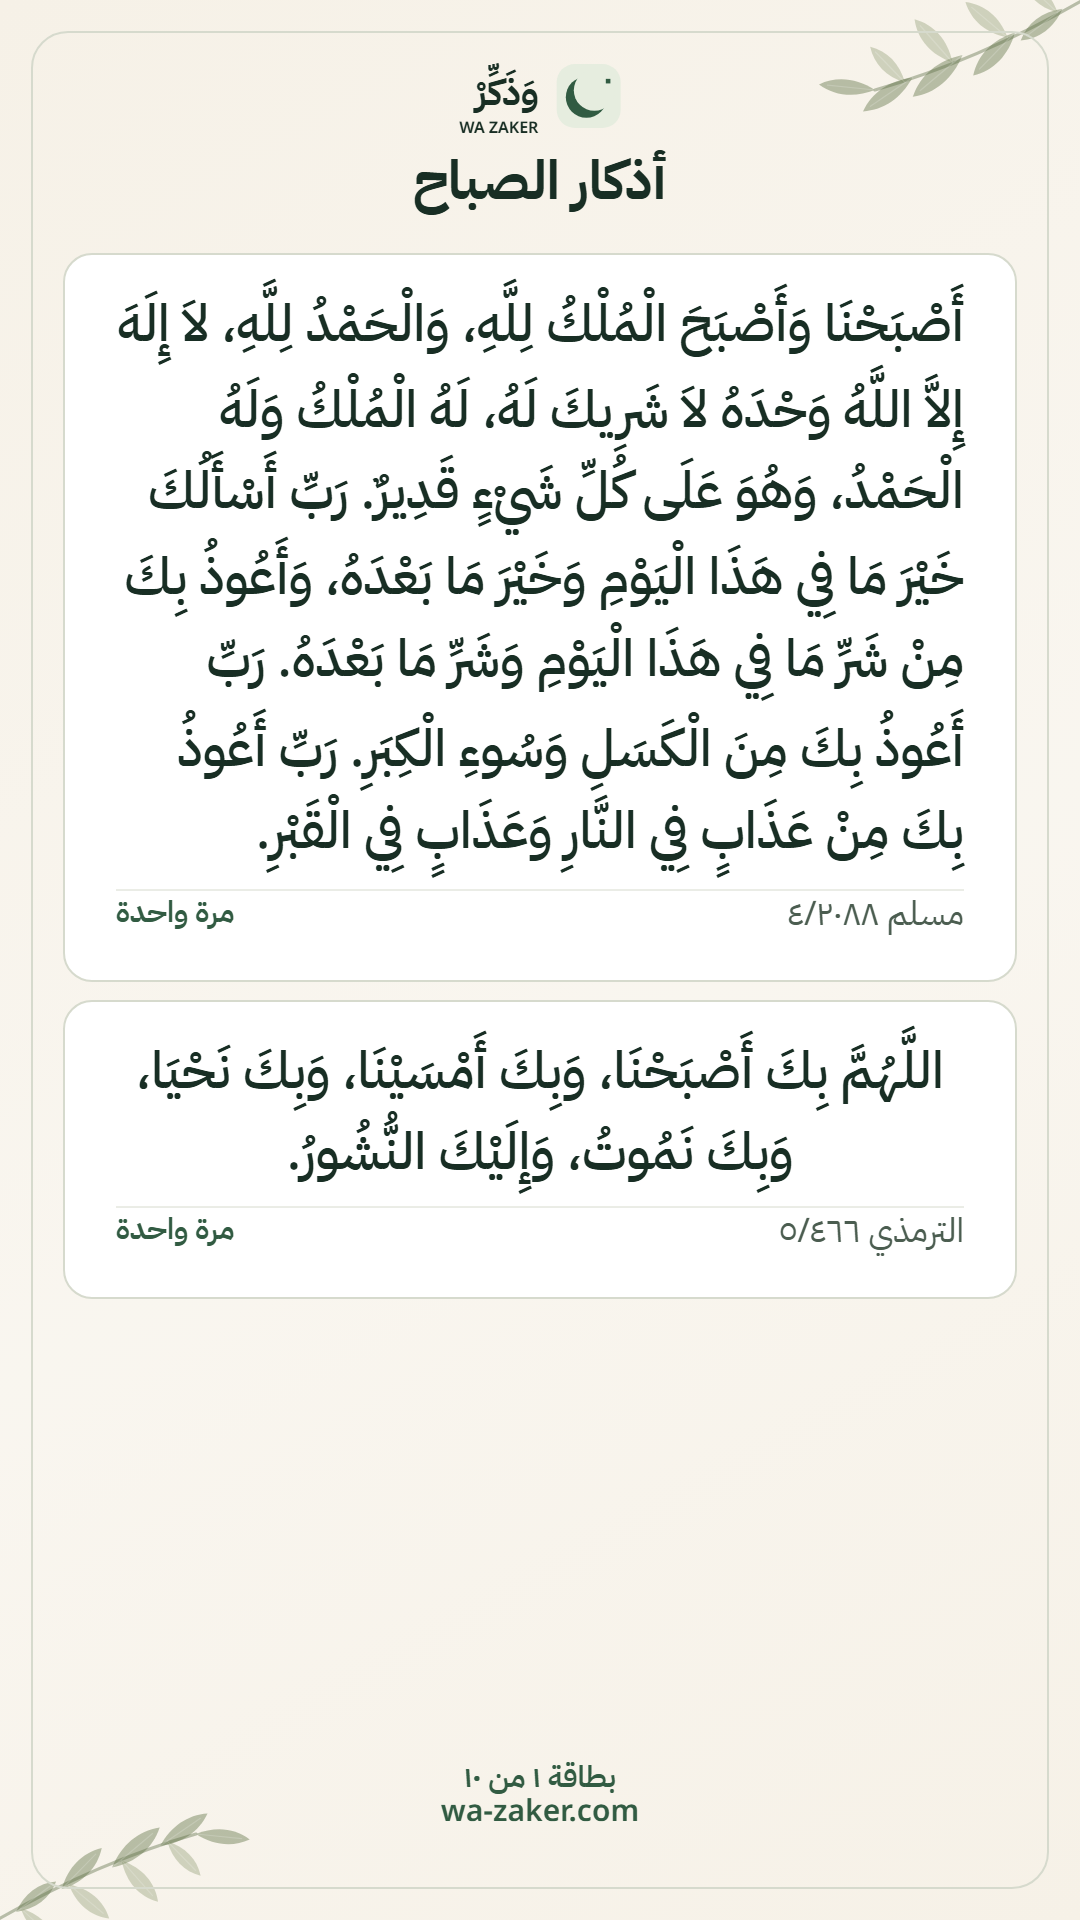
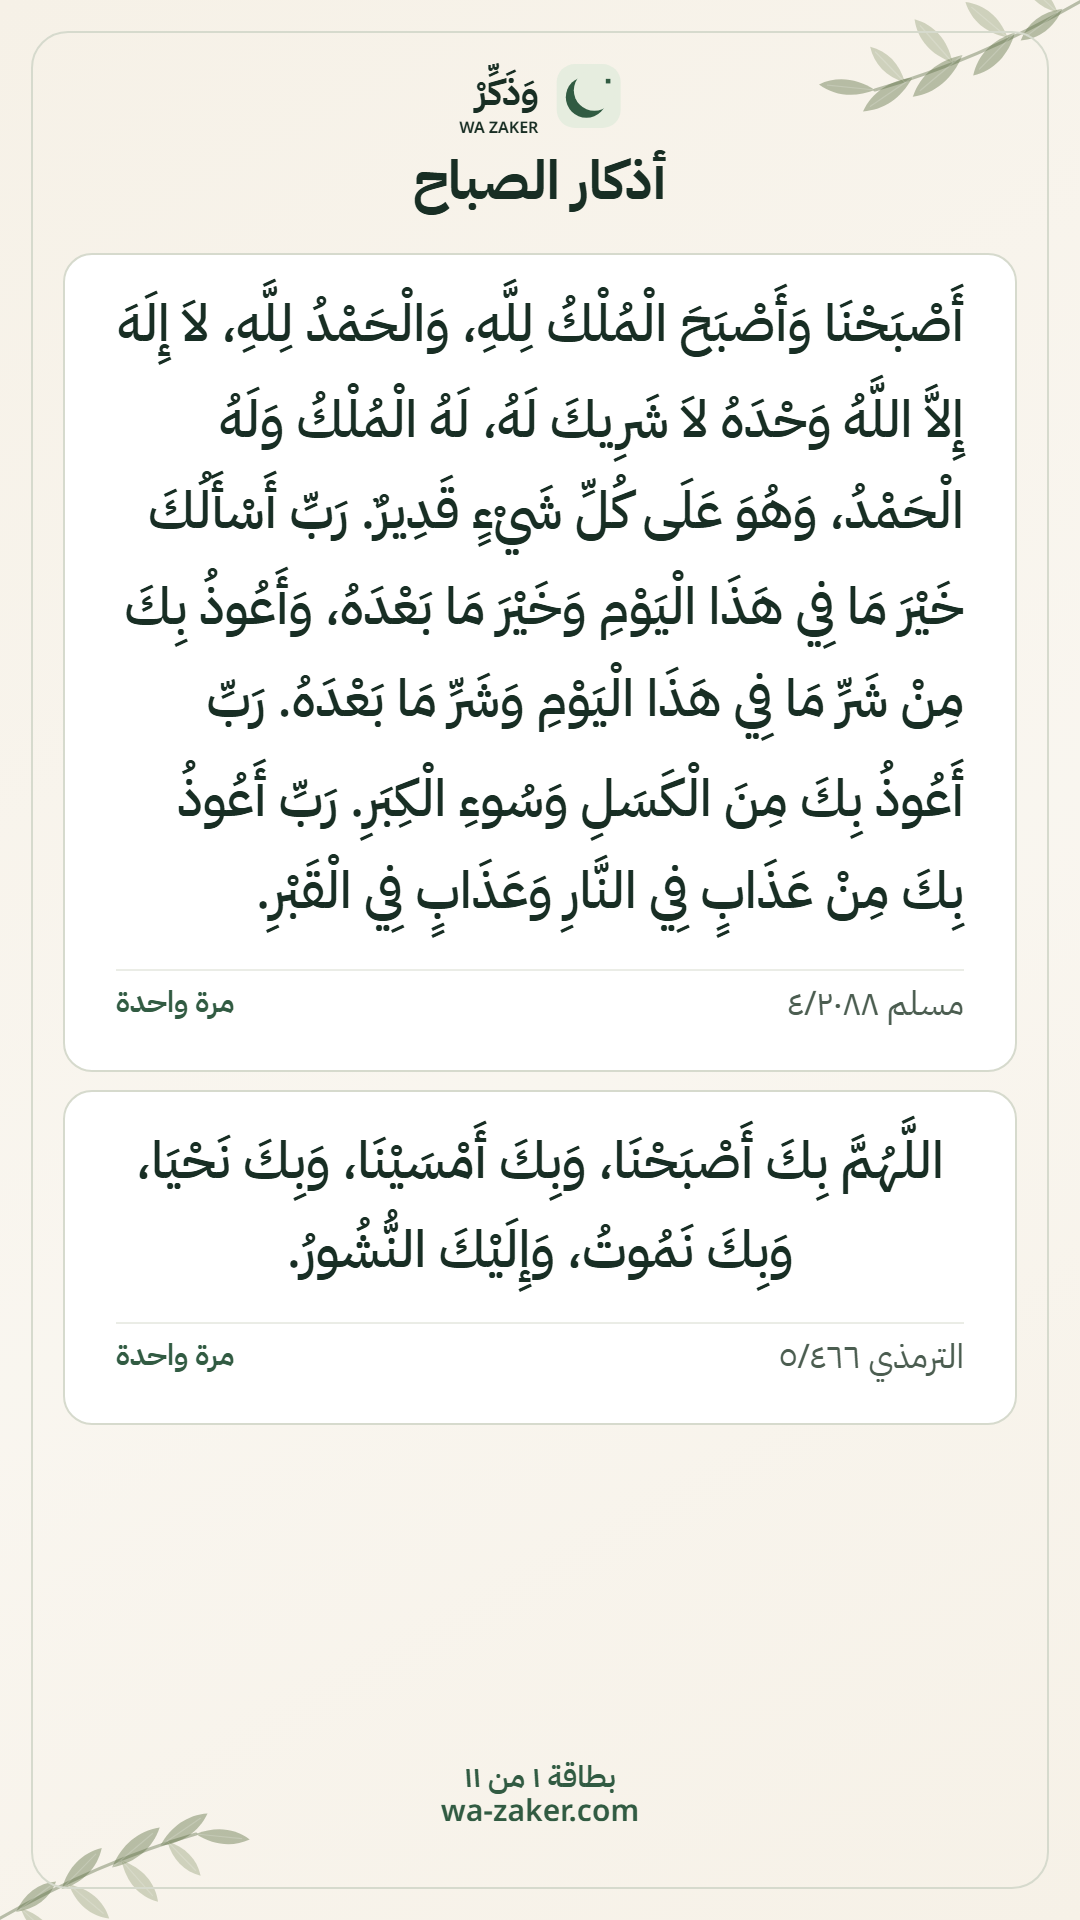
fix: preserve glyph clearance around shared-card dividers

diff --git a/e2e/sharing-refinement.spec.ts b/e2e/sharing-refinement.spec.ts
@@ -2,6 +2,23 @@ import { getAzkarForMode } from "../src/app/content/azkar";
 import AxeBuilder from "@axe-core/playwright";
 import { expect, test, type Page } from "@playwright/test";
 
+async function expectDividerClearance(page: Page) {
+  const ink = await page.evaluate(
+    () => (window as unknown as { cardInk: { top: number; bottom: number; panelId: number }[] }).cardInk,
+  );
+  const dividers = await page.evaluate(
+    () => (window as unknown as { cardDividers: { y: number; panelId: number }[] }).cardDividers,
+  );
+  expect(dividers.length).toBeGreaterThan(0);
+  for (const divider of dividers) {
+    const lines = ink.filter((line) => line.panelId === divider.panelId);
+    const before = lines.filter((line) => line.top < divider.y);
+    const after = lines.filter((line) => line.top >= divider.y);
+    expect(divider.y - Math.max(...before.map((line) => line.bottom))).toBeGreaterThanOrEqual(20);
+    expect(Math.min(...after.map((line) => line.top)) - divider.y).toBeGreaterThanOrEqual(20);
+  }
+}
+
 async function openSharing(page: Page, language = "ar", route = "morning", recoverFit = false) {
   await page.addInitScript(
     ({ language }) => {
@@ -20,6 +37,22 @@ async function openSharing(page: Page, language = "ar", route = "morning", recov
       );
       const original = CanvasRenderingContext2D.prototype.fillText;
       const originalRect = CanvasRenderingContext2D.prototype.roundRect;
+      const originalMove = CanvasRenderingContext2D.prototype.moveTo;
+      const originalLine = CanvasRenderingContext2D.prototype.lineTo;
+      const points = new WeakMap<CanvasRenderingContext2D, { x: number; y: number }>();
+      const cardDividers: { y: number; panelId: number }[] = [];
+      (window as unknown as { cardDividers: unknown[] }).cardDividers = cardDividers;
+      CanvasRenderingContext2D.prototype.moveTo = function (x, y) {
+        points.set(this, { x, y });
+        originalMove.call(this, x, y);
+      };
+      CanvasRenderingContext2D.prototype.lineTo = function (x, y) {
+        const start = points.get(this);
+        if (this.canvas.width === 1080 && start?.x === 116 && x === 964 && start.y === y) {
+          cardDividers.push({ y, panelId: artwork.get(this)!.panelId! });
+        }
+        originalLine.call(this, x, y);
+      };
       const artwork = new WeakMap<
         CanvasRenderingContext2D,
         { brandBottom?: number; wordmarkBottom?: number; panelTop?: number; panelId?: number; panelBottom: number }
@@ -308,12 +341,14 @@ test("sharing preview supports readable Arabic, sources and accessible controls 
             panelTop: number;
             panelBottom: number;
             size: number;
+            panelId: number;
           }[];
         }
       ).cardInk,
   );
   expect(ink.some((line) => line.size === 34)).toBe(true);
   expect(ink.some((line) => line.size === 30)).toBe(true);
+  await expectDividerClearance(page);
   for (const line of ink) {
     expect(line.text).not.toMatch(/[0-9۰-۹]/u);
     expect(line.text).not.toBe("المصدر");
@@ -496,6 +531,7 @@ test("single Morning card keeps its contextual title and complete selected detai
   const download = page.waitForEvent("download");
   await modal.getByRole("button", { name: "حفظ", exact: true }).click();
   await (await download).saveAs(testInfo.outputPath("morning-single-full.png"));
+  await expectDividerClearance(page);
 });
 
 test("complete cards, compatible formats and ZIP saving are usable on a narrow screen", async ({ page }, testInfo) => {
@@ -528,6 +564,7 @@ test("complete cards, compatible formats and ZIP saving are usable on a narrow s
   const imageDownload = page.waitForEvent("download");
   await modal.getByRole("button", { name: "حفظ", exact: true }).click();
   await (await imageDownload).saveAs(testInfo.outputPath("lavender-collection.png"));
+  await expectDividerClearance(page);
   const download = page.waitForEvent("download");
   await modal.getByRole("button", { name: "المجموعة كاملة", exact: true }).click();
   await modal.getByRole("button", { name: "حفظ", exact: true }).click();

diff --git a/src/app/share/shareLayout.ts b/src/app/share/shareLayout.ts
@@ -16,8 +16,16 @@ export const SHARE_ARABIC_FONT = '"IBM Plex Sans Arabic", "Noto Sans Arabic Vari
 export const SHARE_UI_FONT = '"Noto Sans Arabic Variable", system-ui, sans-serif';
 /** Export pixels: protect the reading text's diacritics below the badge. */
 export const SHARE_PILL = { top: 28, height: 50, gap: 16, textTop: 94, bottom: 36 } as const;
-export const SHARE_SECTION_GAP = 28;
-export const SHARE_COMPACT = { top: 24, bottom: 24, sectionGap: 20, panelGap: 20, metadataGap: 32 } as const;
+/** Clear space on each side of a divider, measured from visible glyphs. */
+export const SHARE_DIVIDER_CLEARANCE = 20;
+export const SHARE_SECTION_GAP = SHARE_DIVIDER_CLEARANCE * 2;
+export const SHARE_COMPACT = {
+  top: 24,
+  bottom: 24,
+  sectionGap: SHARE_SECTION_GAP,
+  panelGap: 20,
+  metadataGap: 32,
+} as const;
 
 /** Display glyphs only: reviewed payloads, URLs and filenames stay byte-preserving. */
 export function shareDisplayDigits(text: string): string {
@@ -247,8 +255,8 @@ export function measureShareSection(
 ): MeasuredSection {
   const fontSize =
     section.key === "arabic" ? (single ? (compact ? 52 : 64) : 52) : primary ? 52 : section.key === "source" ? 34 : 36;
-  const lineHeight = Math.ceil(fontSize * (section.direction === "rtl" ? 1.65 : 1.5));
   ctx.font = `${section.key === "arabic" ? 500 : 400} ${fontSize}px ${section.direction === "rtl" ? SHARE_ARABIC_FONT : SHARE_UI_FONT}`;
+  ctx.textBaseline = "alphabetic";
   const lines = wrapShareText(section.text, (value) => ctx.measureText(shareDisplayDigits(value)).width, width);
   // Keep the final reference together when it fits on the next line. The
   // joined reviewed payload stays identical, including its whitespace.
@@ -262,6 +270,15 @@ export function measureShareSection(
     }
   }
   const labelHeight = section.key === "arabic" || section.key === "source" ? 0 : 44;
+  // drawInkTop positions actual ink at the row top. Arabic marks can extend
+  // beyond nominal leading; reserve their real height before the next row.
+  const inkHeight = Math.max(
+    ...lines.map((line) => {
+      const bounds = ctx.measureText(shareDisplayDigits(line.trim()));
+      return (bounds.actualBoundingBoxAscent ?? fontSize * 0.8) + (bounds.actualBoundingBoxDescent ?? fontSize * 0.2);
+    }),
+  );
+  const lineHeight = Math.ceil(Math.max(fontSize * (section.direction === "rtl" ? 1.65 : 1.5), inkHeight + 8));
   return { ...section, lines, fontSize, lineHeight, height: lines.length * lineHeight + labelHeight };
 }
 

diff --git a/src/app/share/collectionShareCard.ts b/src/app/share/collectionShareCard.ts
@@ -19,6 +19,7 @@ import {
   shareGeometry,
   SHARE_PILL,
   SHARE_SECTION_GAP,
+  SHARE_DIVIDER_CLEARANCE,
   SHARE_COMPACT,
   formatShareNumber,
   shareDisplayDigits,
@@ -222,8 +223,8 @@ export function renderCollectionStoryPage(input: CollectionStoryPageInput): HTML
         ctx.beginPath();
         ctx.strokeStyle = palette.border;
         ctx.lineWidth = 1;
-        ctx.moveTo(textLeft, sectionY - 10);
-        ctx.lineTo(textRight, sectionY - 10);
+        ctx.moveTo(textLeft, sectionY - SHARE_DIVIDER_CLEARANCE);
+        ctx.lineTo(textRight, sectionY - SHARE_DIVIDER_CLEARANCE);
         ctx.stroke();
       }
       ctx.direction = section.direction;
@@ -253,8 +254,8 @@ export function renderCollectionStoryPage(input: CollectionStoryPageInput): HTML
       ctx.beginPath();
       ctx.strokeStyle = palette.border;
       ctx.lineWidth = 1;
-      ctx.moveTo(textLeft, sectionY - 10);
-      ctx.lineTo(textRight, sectionY - 10);
+      ctx.moveTo(textLeft, sectionY - SHARE_DIVIDER_CLEARANCE);
+      ctx.lineTo(textRight, sectionY - SHARE_DIVIDER_CLEARANCE);
       ctx.stroke();
       ctx.direction = language === "ar" ? "rtl" : "ltr";
       ctx.textAlign = language === "ar" ? "left" : "right";

diff --git a/src/app/share/shareLayout.test.ts b/src/app/share/shareLayout.test.ts
@@ -32,6 +32,14 @@ function context() {
   } as CanvasRenderingContext2D;
 }
 describe("complete share layouts", () => {
+  it("reserves actual diacritic height before advancing a row", () => {
+    const ctx = context();
+    ctx.measureText = () => ({ width: 120, actualBoundingBoxAscent: 90, actualBoundingBoxDescent: 22 }) as TextMetrics;
+    const section = measureShareSection(ctx, { key: "arabic", text: "رَبِّ", direction: "rtl" }, false, 848);
+    expect(section.lineHeight).toBe(120);
+    expect(section.height).toBe(120);
+    expect(SHARE_COMPACT.sectionGap).toBe(40);
+  });
   it("uses Arabic-Indic display digits without changing reviewed lines or URLs", () => {
     expect(shareDisplayDigits("0123456789 · ۰۱۲۳۴۵۶۷۸۹ · ٠١٢٣٤٥٦٧٨٩")).toBe("٠١٢٣٤٥٦٧٨٩ · ٠١٢٣٤٥٦٧٨٩ · ٠١٢٣٤٥٦٧٨٩");
     expect(formatShareNumber(13)).toBe("١٣");

diff --git a/docs/agent/phases/COMPACT_COMBINED_SHARED_CARDS.md b/docs/agent/phases/COMPACT_COMBINED_SHARED_CARDS.md
@@ -46,7 +46,7 @@ Earlier diagnostic failures are retained: one unit expected the wrong existing E
 
 ## Visual/manual evidence
 
-Accepted exports: morning-with-sources.png and morning-without-sources.png in docs/agent/evidence/compact-combined-shared-cards. Inspection confirms compact reference/count rows, complete devotional text, plain footer, Hindi numerals and readable panels. The two exports have identical header pixels; source removal allows three complete items on the example's first page, instead of two. Browser artifacts include all palettes, single cards, reminders/QR, narrow and enlarged-text settings. Real destination-app compression, physical cutouts and screen-reader speech remain human follow-ups.
+Accepted exports: morning-with-sources.png and morning-without-sources.png in docs/agent/evidence/compact-combined-shared-cards. Inspection confirms compact reference/count rows, complete devotional text, plain footer, Hindi numerals and readable panels. The two exports have identical header pixels; source removal reduces panel height; the corrected example keeps two complete items and prioritizes diacritic clearance over denser packing. Browser artifacts include all palettes, single cards, reminders/QR, narrow and enlarged-text settings. Real destination-app compression, physical cutouts and screen-reader speech remain human follow-ups.
 
 ## Documentation updated
 
@@ -67,3 +67,9 @@ The previous deployed reading/update/audio changes are preserved. No content rev
 ## Recommended next step
 
 Check shared images on real Android/iPhone destinations and verify reading comfort and source choices with assistive technology.
+
+## Follow-up: visible separator clearance
+
+Owner-reported lavender-card collision is repaired by measuring actual Arabic ascent/descent before advancing rows, reserving 8 pixels of trailing leading, and centering dividers in 40-pixel section gaps. Actual ink clearance must be at least 20 pixels above and below separators. Added a tall-diacritic unit regression and browser canvas assertions grouped by panel. Initial targeted unit verification: 3 files, 37 tests passed. Final browser, release gates and deployment outcomes are recorded in output/compact-sharing-release/RELEASE_VERIFICATION.md. Release stamp is 2026-10-05.6. The first pending Quality run was cancelled to supersede it before deployment.
+
+Additional accepted evidence: lavender-divider-clearance.png, inspected at full export size. The separator leaves visible breathing room from the final devotional line and the count/source metadata.

diff --git a/docs/agent/DECISION_LOG.md b/docs/agent/DECISION_LOG.md
@@ -4210,3 +4210,7 @@ The owner authorizes restoring only اللهم مصرف القلوب, سبحان
 The owner approves the animation audit recommendations and asks to replace the separate desktop shortcut area with the counting information card, adapted for clicking/Space and a keyboard icon. Combine desktop/tablet guidance below the counter, preserve phone touch guidance, retain complete shortcut help and focus recovery, improve the open collection panel and keep ordinary navigation clear of text. Preserve the approved 100ms exit/240ms arrival directional text-only transition with immediate reduced motion. Remove the subtle 45-second 1–1.03 Home photo loop, use transform-based progress fills, bound Library entrance delays and enforce these contracts in the motion gate. Complete repository-authorized verification and release.
 
 The owner additionally flags the overlapping floating collection toggle as a major usability problem and authorizes repositioning. Move it into the normal-flow header toolbar beside the menu, keep the title on its own wrapping row and preserve panel close/focus return. The owner explicitly approves including the concurrently completed scoped Arabic audio restoration after verification. The copied-state label and pending clipboard guard complete the audit's reference-copy microinteraction recommendation.
+
+## Shared-card separator repair — 2026-10-05
+
+The owner reports devotional text touching the separator in a lavender combined card. Reserve actual glyph height and at least 20 export pixels of clearance on each side of every section divider. Readability takes precedence over packing another item. The pending release is superseded by this repair.

diff --git a/docs/DESIGN_SYSTEM.md b/docs/DESIGN_SYSTEM.md
@@ -593,3 +593,7 @@ SheetHeader shares wrapped titles/subtitles and one 48px close action. Modal bod
 Ordinary zikr sharing uses the permanent reader dock. Long-surah pages have no counter dock, so their options menu retains Share to preserve access to sourced reminders and Mushaf links.
 
 ReadingTextTransition moves only the Reader or expanded-player text: 20px exit over 100ms, then 28px arrival over 240ms with cubic-bezier(0.22, 1, 0.36, 1) deceleration. Next enters from logical end and the old text leaves toward logical start; Previous reverses. Initial content does not slide; both OS and application reduced-motion preferences remove movement and waiting. Controls, progress, reading semantics and canonical Mushaf pages remain stable.
+
+### Shared-card divider clearance — 2026-10-05
+
+Export rows reserve the measured alphabetic ascent and descent of their actual displayed glyphs, plus at least 8 pixels of trailing leading. Separators sit within a 40-pixel section gap, leaving at least 20 export pixels from visible text on either side, including Arabic diacritics. This applies to single-card supporting sections and combined-card source/count rows. Browser evidence must assert actual ink-to-divider clearance; nominal font size or line boxes alone are insufficient.

diff --git a/docs/QUALITY_CHECKLIST.md b/docs/QUALITY_CHECKLIST.md
@@ -130,3 +130,7 @@ Verify one progress control per player form, RTL timeline/transport in Arabic an
 ### Required audio release verification
 
 Local pnpm check includes deterministic audio metadata validation. Quality CI additionally requires pnpm validate:audio for every approved hosted recording before deployment. No recording checks, coverage thresholds or budgets are removed.
+
+### Shared-card divider clearance — 2026-10-05
+
+Export rows reserve the measured alphabetic ascent and descent of their actual displayed glyphs, plus at least 8 pixels of trailing leading. Separators sit within a 40-pixel section gap, leaving at least 20 export pixels from visible text on either side, including Arabic diacritics. This applies to single-card supporting sections and combined-card source/count rows. Browser evidence must assert actual ink-to-divider clearance; nominal font size or line boxes alone are insufficient.
